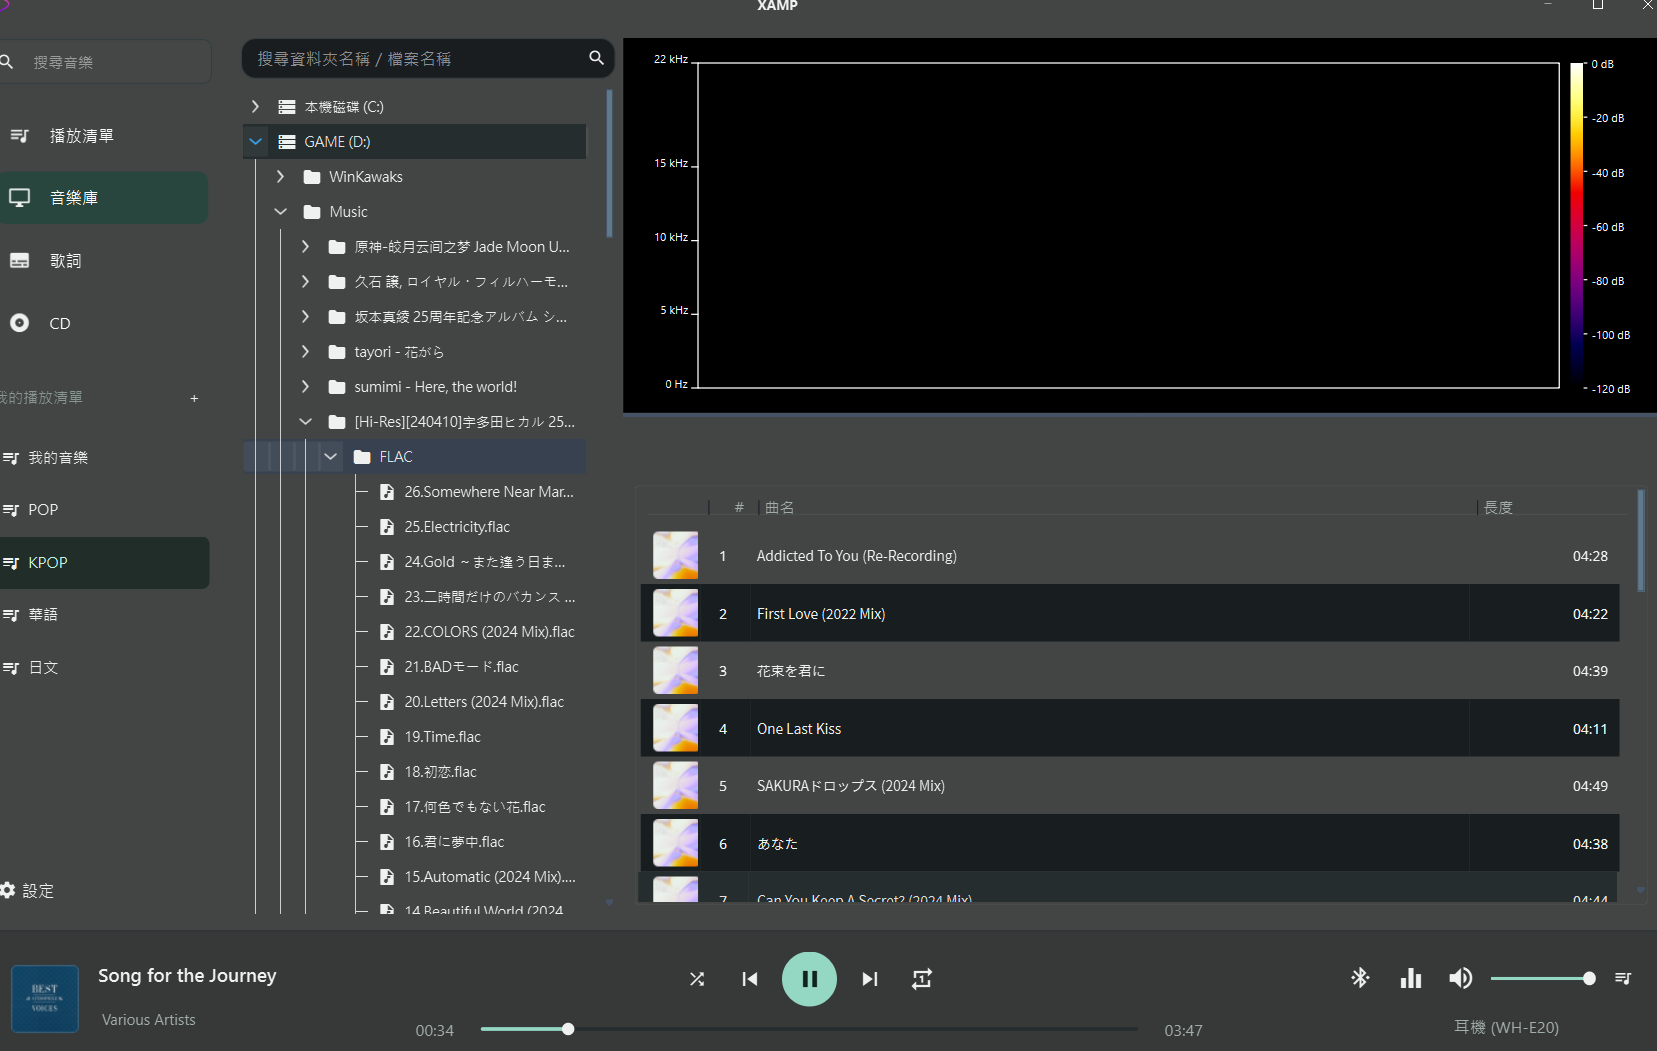
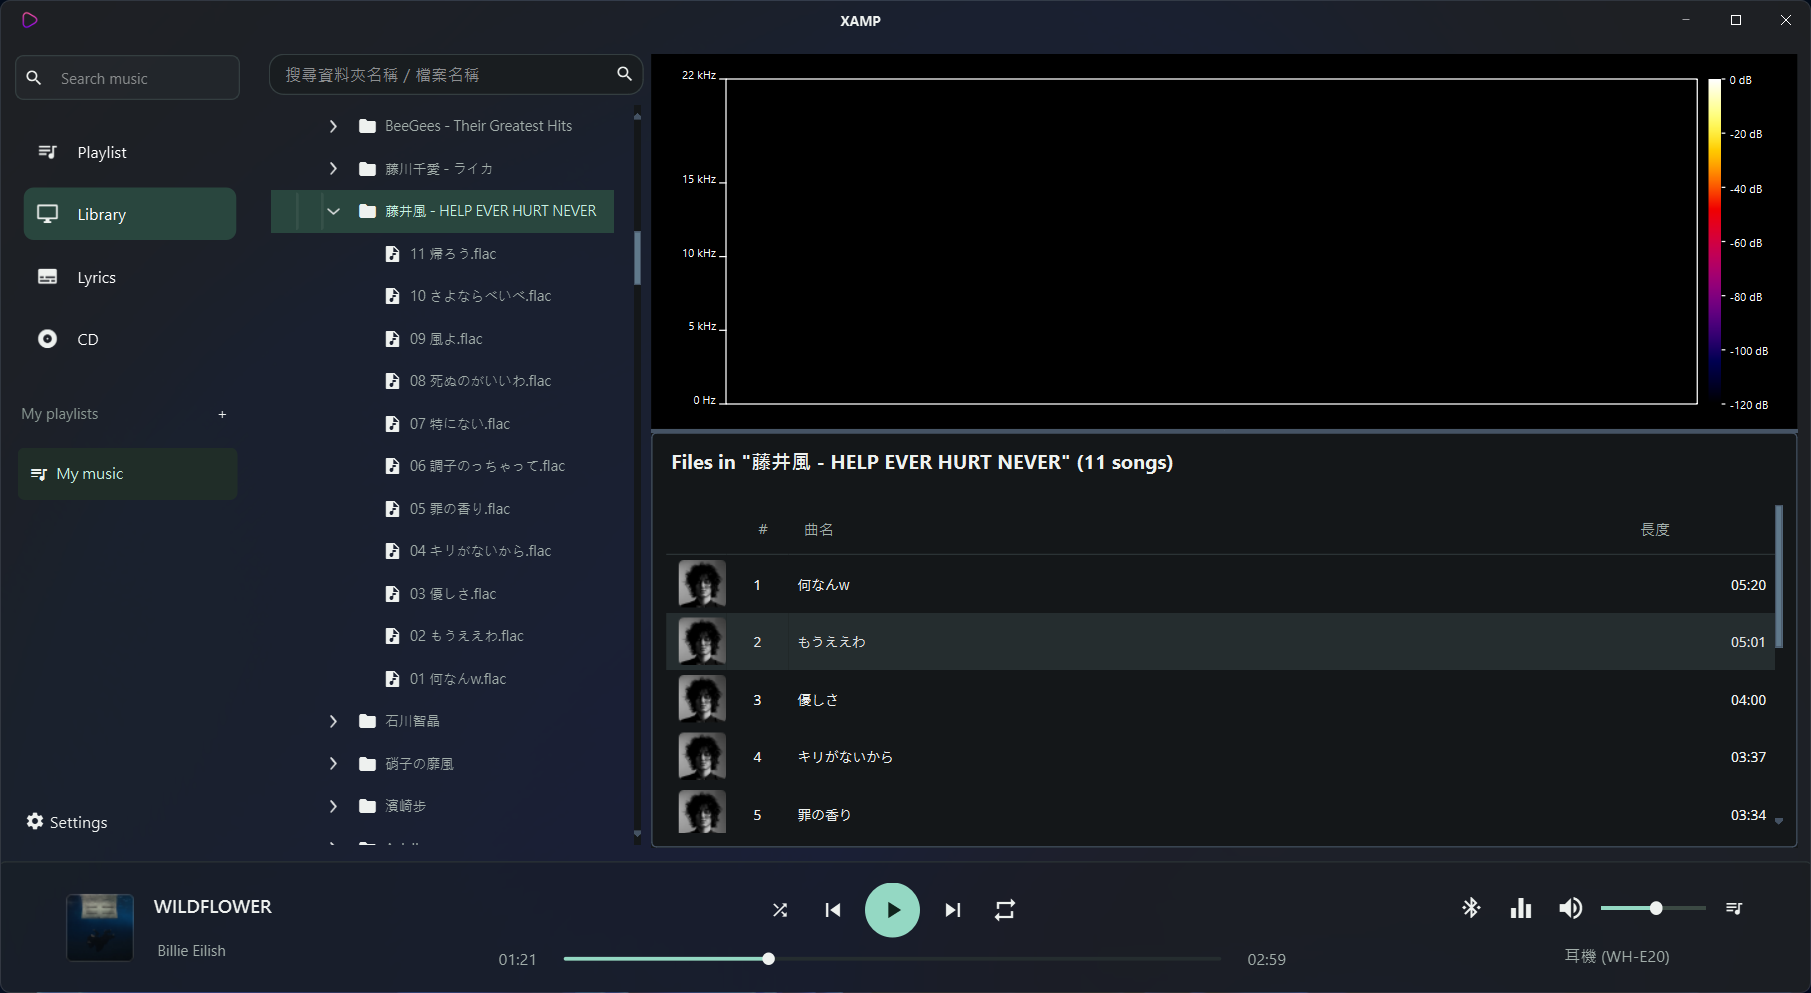
Replace public screenshots with user-approved showcase images

diff --git a/index.html b/index.html
@@ -12,12 +12,12 @@
   <meta property="og:title" content="XAMP 2 · 讓音樂，回到主角">
   <meta property="og:description" content="你的音樂收藏，值得好好播放。下載 Windows 桌面播放器 XAMP 2。">
   <meta property="og:url" content="https://billlin0904.github.io/xamp2/">
-  <meta property="og:image" content="https://billlin0904.github.io/xamp2/assets/site/player-playlist.png">
+  <meta property="og:image" content="https://billlin0904.github.io/xamp2/assets/site/player-playlist.png?v=2">
   <meta name="twitter:card" content="summary_large_image">
   <link rel="icon" href="assets/site/xamp-logo.png" type="image/png">
   <link rel="preload" href="assets/site/fonts/XampDisplay-TC.woff2" as="font" type="font/woff2" crossorigin>
-  <link rel="stylesheet" href="assets/site/site.css">
-  <script src="assets/site/site.js" defer></script>
+  <link rel="stylesheet" href="assets/site/site.css?v=2">
+  <script src="assets/site/site.js?v=2" defer></script>
 </head>
 <body>
   <a class="skip-link" href="#main">跳至主要內容</a>
@@ -49,16 +49,22 @@
     <section class="showcase wrap" aria-label="播放器實際畫面">
       <div class="showcase-bar">
         <span class="showcase-label">熟悉的收藏，新的聆聽日常。</span>
-        <div class="view-switch" role="group" aria-label="選擇播放器畫面" hidden>
-          <button type="button" data-view="playlist" aria-pressed="true">播放清單</button>
-          <button type="button" data-view="library" aria-pressed="false">音樂庫</button>
+        <div class="screenshot-controls" hidden>
+          <div class="view-switch" role="group" aria-label="選擇播放器畫面">
+            <button type="button" data-view="playlist" aria-pressed="true">播放清單</button>
+            <button type="button" data-view="library" aria-pressed="false">音樂庫</button>
+          </div>
+          <div class="view-switch" role="group" aria-label="選擇播放器背景">
+            <button type="button" data-background="solid" aria-pressed="true">實色背景</button>
+            <button type="button" data-background="transparent" aria-pressed="false">透明背景</button>
+          </div>
         </div>
       </div>
       <figure class="player-figure">
-        <a id="screenshot-link" href="assets/site/player-playlist.png" target="_blank" rel="noopener" aria-label="在新分頁開啟播放器原始截圖">
-          <img id="player-screenshot" class="player-screenshot" src="assets/site/player-playlist.png" width="1811" height="992" fetchpriority="high" alt="XAMP 2 播放清單：左側導覽、專輯封面、歌曲列表與底部播放控制，搭配 Windows 透明背景。">
+        <a id="screenshot-link" href="assets/site/player-playlist.png?v=2" target="_blank" rel="noopener" aria-label="在新分頁開啟播放器原始截圖">
+          <img id="player-screenshot" class="player-screenshot" src="assets/site/player-playlist.png?v=2" width="1811" height="993" fetchpriority="high" alt="XAMP 2 實色背景播放清單：專輯封面、歌曲資訊與底部播放控制。">
         </a>
-        <figcaption id="screenshot-caption">播放清單實機畫面。介面與背景效果會依版本、系統及設定而異。</figcaption>
+        <figcaption id="screenshot-caption">播放清單 · 實色背景。專輯封面、曲目資訊與播放控制集中在同一個畫面。</figcaption>
       </figure>
     </section>
 

diff --git a/assets/site/site.js b/assets/site/site.js
@@ -23,23 +23,34 @@
   });
 
   const screenshots = {
-    playlist: { src: 'assets/site/player-playlist.png', alt: 'XAMP 2 播放清單：左側導覽、專輯封面、歌曲列表與底部播放控制，搭配 Windows 透明背景。', caption: '播放清單實機畫面。介面與背景效果會依版本、系統及設定而異。' },
-    library: { src: 'docs/images/player-library.png', alt: 'XAMP 音樂庫：本機資料夾瀏覽與歌曲列表，搭配 Windows 背景材質。', caption: '音樂庫開發版本實機畫面，歌曲列表為統一樣式前的版本；靜態圖片僅展示當時觀感。' }
+    playlist: {
+      solid: { src: 'assets/site/player-playlist.png?v=2', alt: 'XAMP 2 實色背景播放清單：專輯封面、歌曲資訊與底部播放控制。', caption: '播放清單 · 實色背景。專輯封面、曲目資訊與播放控制集中在同一個畫面。' },
+      transparent: { src: 'assets/site/player-playlist-transparent.png', alt: 'XAMP 2 透明背景播放清單，展示 Windows 背景材質與歌曲列表。', caption: '播放清單 · 透明背景。背景材質融入桌面色彩，保留清楚的文字與控制項；實際效果依系統與設定而異。' }
+    },
+    library: {
+      solid: { src: 'docs/images/player-library.png?v=2', alt: 'XAMP 2 實色背景音樂庫：資料夾樹、專輯歌曲列表與頻譜顯示區。', caption: '音樂庫 · 實色背景。以資料夾瀏覽收藏，查看專輯曲目，並保留頻譜顯示區。' },
+      transparent: { src: 'assets/site/player-library-transparent.png', alt: 'XAMP 2 透明背景音樂庫：資料夾瀏覽、專輯曲目與頻譜顯示區。', caption: '音樂庫 · 透明背景。資料夾導覽搭配桌面背景材質，曲目與頻譜區維持清楚的層次。' }
+    }
   };
-  const viewSwitch = document.querySelector('.view-switch');
+  const controls = document.querySelector('.screenshot-controls');
   const screenshot = document.querySelector('#player-screenshot');
   const screenshotLink = document.querySelector('#screenshot-link');
   const caption = document.querySelector('#screenshot-caption');
-  viewSwitch.hidden = false;
-  viewSwitch.addEventListener('click', event => {
-    const button = event.target.closest('button[data-view]');
+  let selectedView = 'playlist';
+  let selectedBackground = 'solid';
+  controls.hidden = false;
+  controls.addEventListener('click', event => {
+    const button = event.target.closest('button');
     if (!button) return;
-    const view = screenshots[button.dataset.view];
+    if (button.dataset.view) selectedView = button.dataset.view;
+    if (button.dataset.background) selectedBackground = button.dataset.background;
+    const view = screenshots[selectedView][selectedBackground];
     screenshot.src = view.src;
     screenshot.alt = view.alt;
     screenshotLink.href = view.src;
     caption.textContent = view.caption;
-    viewSwitch.querySelectorAll('button').forEach(item => item.setAttribute('aria-pressed', String(item === button)));
+    controls.querySelectorAll('[data-view]').forEach(item => item.setAttribute('aria-pressed', String(item.dataset.view === selectedView)));
+    controls.querySelectorAll('[data-background]').forEach(item => item.setAttribute('aria-pressed', String(item.dataset.background === selectedBackground)));
   });
 
   // Preserve links to headings that now live inside disclosure panels.

diff --git a/assets/site/site.css b/assets/site/site.css
@@ -270,6 +270,12 @@ code {
   border:1px solid var(--line);
   border-radius:7px;
 }
+.screenshot-controls {
+  display:flex;
+  flex-wrap:wrap;
+  justify-content:flex-end;
+  gap:10px;
+}
 .view-switch button {
   border:0;
   background:transparent;
@@ -297,7 +303,7 @@ code {
 .player-screenshot {
   width:100%;
   height:auto;
-  aspect-ratio:1811/992;
+  aspect-ratio:1811/993;
   object-fit:contain;
 }
 .player-figure figcaption {
@@ -711,6 +717,18 @@ code {
   }
   .view-switch button {
     min-height:40px;
+  }
+  .screenshot-controls {
+    width:100%;
+    justify-content:space-between;
+  }
+  .screenshot-controls .view-switch {
+    flex:1;
+    justify-content:center;
+  }
+  .screenshot-controls button {
+    padding-inline:10px;
+    white-space:nowrap;
   }
   .player-figure figcaption {
     text-align:left;

diff --git a/docs/website-design.md b/docs/website-design.md
@@ -15,7 +15,7 @@ The first viewport introduces the player and offers the download; the full-width
 ## Design system and assets
 
 - Brand logo: `assets/site/xamp-logo.png`, copied without modification from `src/xamp/xamp2.png`. Preserve its original pink/violet identity; mint is the interaction accent from the player.
-- Main screenshot: `assets/site/player-playlist.png`, supplied by the user on 2026-09-27, copied without modification. Library screenshot: `docs/images/player-library.png`, explicitly captioned as an earlier development view.
+- Screenshots: four user-approved replacement images supplied on 2026-09-27, copied without modification. Solid playlist: `assets/site/player-playlist.png` (also replaces `docs/images/player-playlist.png`); solid library: `docs/images/player-library.png`; transparent variants: `assets/site/player-playlist-transparent.png` and `assets/site/player-library-transparent.png`. Two independent controls select view and background. Previously published paths are overwritten too, so current site and README no longer serve the prior images. This does not rewrite historical Git commits or invalidate third-party caches.
 - Charcoal #111715, surface #19221e, text #eef3ef, muted #a1b0a7, mint #a3e2c3. Light website tokens preserve the same hierarchy. Website theme is independent from desktop player settings.
 - Typography: locally hosted Karla with platform Traditional Chinese body fallback; subset Source Han Sans TC Bold for display, retaining SIL OFL notices under `assets/site/fonts`. Subset named XampDisplay to avoid reserved font names. Regenerate after changing display text with `tools/Subset-WebsiteFont.py`.
 - Spacing: 8px baseline, 40/56/96px responsive outer gutters, 64/80/112px section rhythm.

diff --git a/README.md b/README.md
@@ -4,9 +4,9 @@
 
 [下載 Windows 1.0.3 測試版](https://github.com/billlin0904/xamp2/releases/tag/v1.0.3) · [所有版本](https://github.com/billlin0904/xamp2/releases) · [回報問題](https://github.com/billlin0904/xamp2/issues)
 
-![XAMP 播放清單、專輯封面與底部播放控制](docs/images/player-playlist.png)
+![XAMP 播放清單、專輯封面與底部播放控制](docs/images/player-playlist.png?v=2)
 
-*使用者提供的開發版本實機截圖。介面、曲目與配色可能與安裝版本略有差異。*
+*播放清單實色背景實機截圖，使用者提供的展示畫面。介面與配色可能隨版本或設定而異。*
 
 ## 主要功能
 
@@ -32,9 +32,9 @@
 
 透明效果不是把整個視窗連同文字一起變淡；文字、封面與控制項保持可讀性，背景透出系統材質。實際觀感會隨桌布、視窗後方內容與深淺色主題改變；單色背景下通常較不明顯。
 
-![XAMP 音樂庫、資料夾瀏覽與背景材質實機畫面](docs/images/player-library.png)
+![XAMP 音樂庫、資料夾瀏覽與背景材質實機畫面](assets/site/player-library-transparent.png)
 
-*背景材質開發畫面，取自使用者提供的截圖；其中歌曲列表是統一樣式前的版本。靜態圖片僅展示當時觀感，不代表所有區塊皆完全透明。*
+*音樂庫透明背景實機截圖，展示資料夾瀏覽、曲目列表與頻譜區。實際透明效果依系統與設定而異。*
 
 ## 下載與安裝
 
